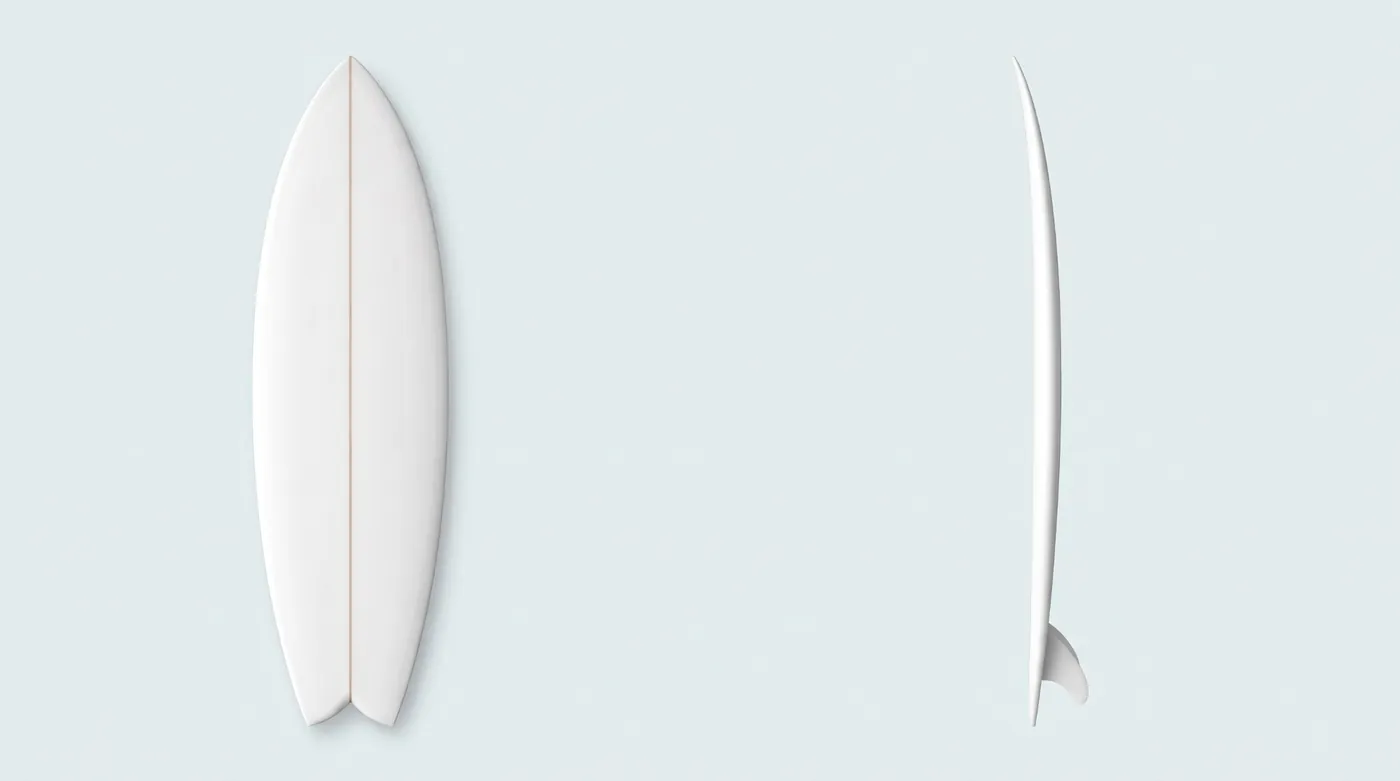
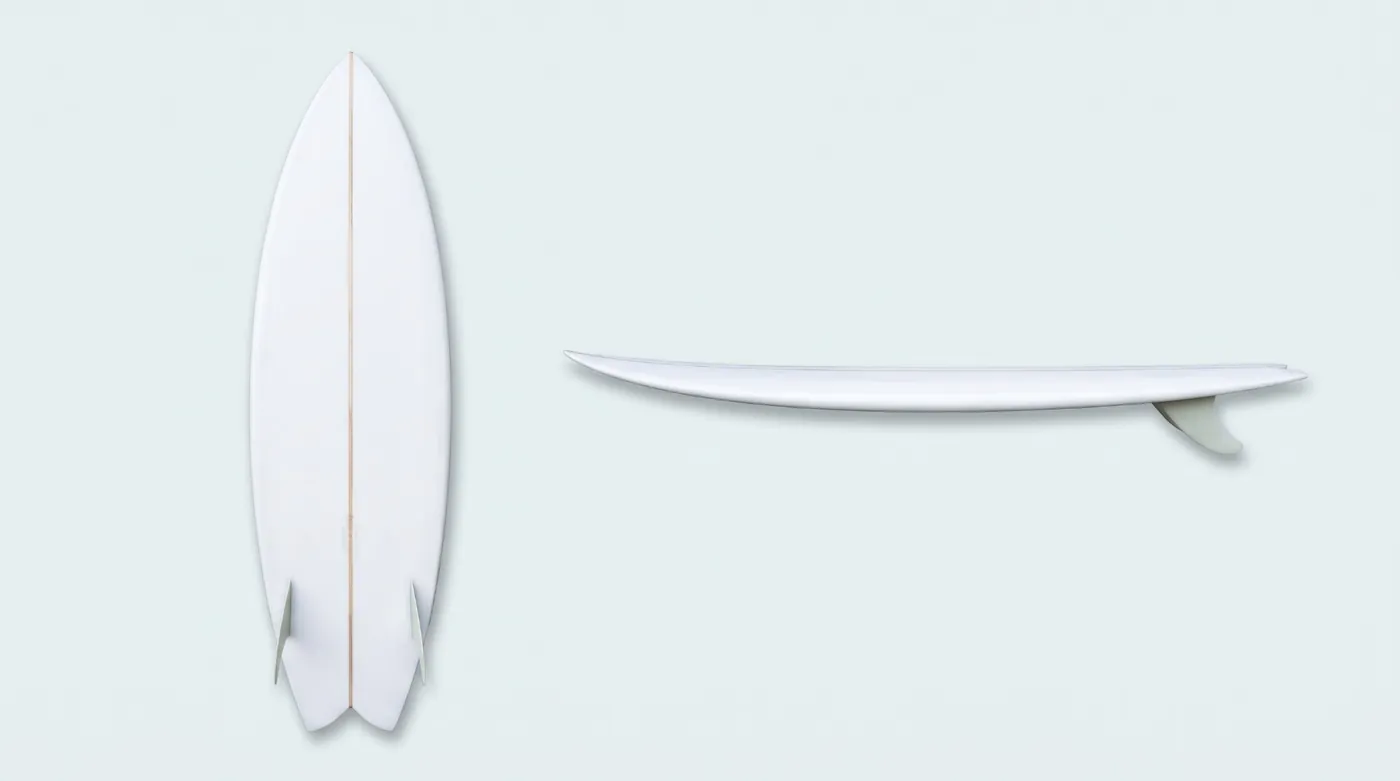
SURF DNA: biquilha deitada, no padrão das outras ilustrações
Claude-Session: https://claude.ai/code/session_01EmBLSYdyqwezRsh7Xdx58F

Changed region(s): [[0.3993, 0.1536, 0.9521, 0.8912], [0.215, 0.0615, 0.3379, 0.9526], [0.1843, 0.7375, 0.2457, 0.8912]]

diff --git a/docs/board/imagens.md b/docs/board/imagens.md
@@ -16,7 +16,7 @@ O app só mostra a ilustração dos tipos listados em `TIMG`; tipo sem imagem ca
 | Evolution / allround | evo | ok |
 | Fish | fish | ok (deitada; a v1 em pé está no backup) |
 | Groveler | grov | ok |
-| Biquilha moderna | twin | ok (refazer deitada, como as outras) |
+| Biquilha moderna | twin | ok (deitada; a v1 em pé está no backup) |
 | Softboard performance | softp | ok |
 | Step-up | step | ok (vista de cima mostra as quilhas; aprovada assim) |
 | Gun | gun | ok (plug do leash retocado: tinha um desenho que parecia logo) |
@@ -29,7 +29,7 @@ Os originais do Gemini (2000 px) estão em `docs/board/imagens-originais/`, incl
 - 2/nov/2026: gun com o plug do leash retocado (original em `imagens-originais/gun.jpg`).
 
 ## Próxima sessão (pendente)
-2. Se quiser, refazer a biquilha deitada.
+2. Ilustrações completas. Opcional: longp-round com quilhas claras.
 3. Variantes de rabeta completas. Opcional: refazer longp-round com quilhas claras (vieram pretas).
 4. Opcional: refazer a mini-malibu mais larga (ficou parecida com a mid-length).
 5. Salvar em `surf/img/tipos/`, incluir a chave em `TIMG` e mandar para revisão do Gustavo.
